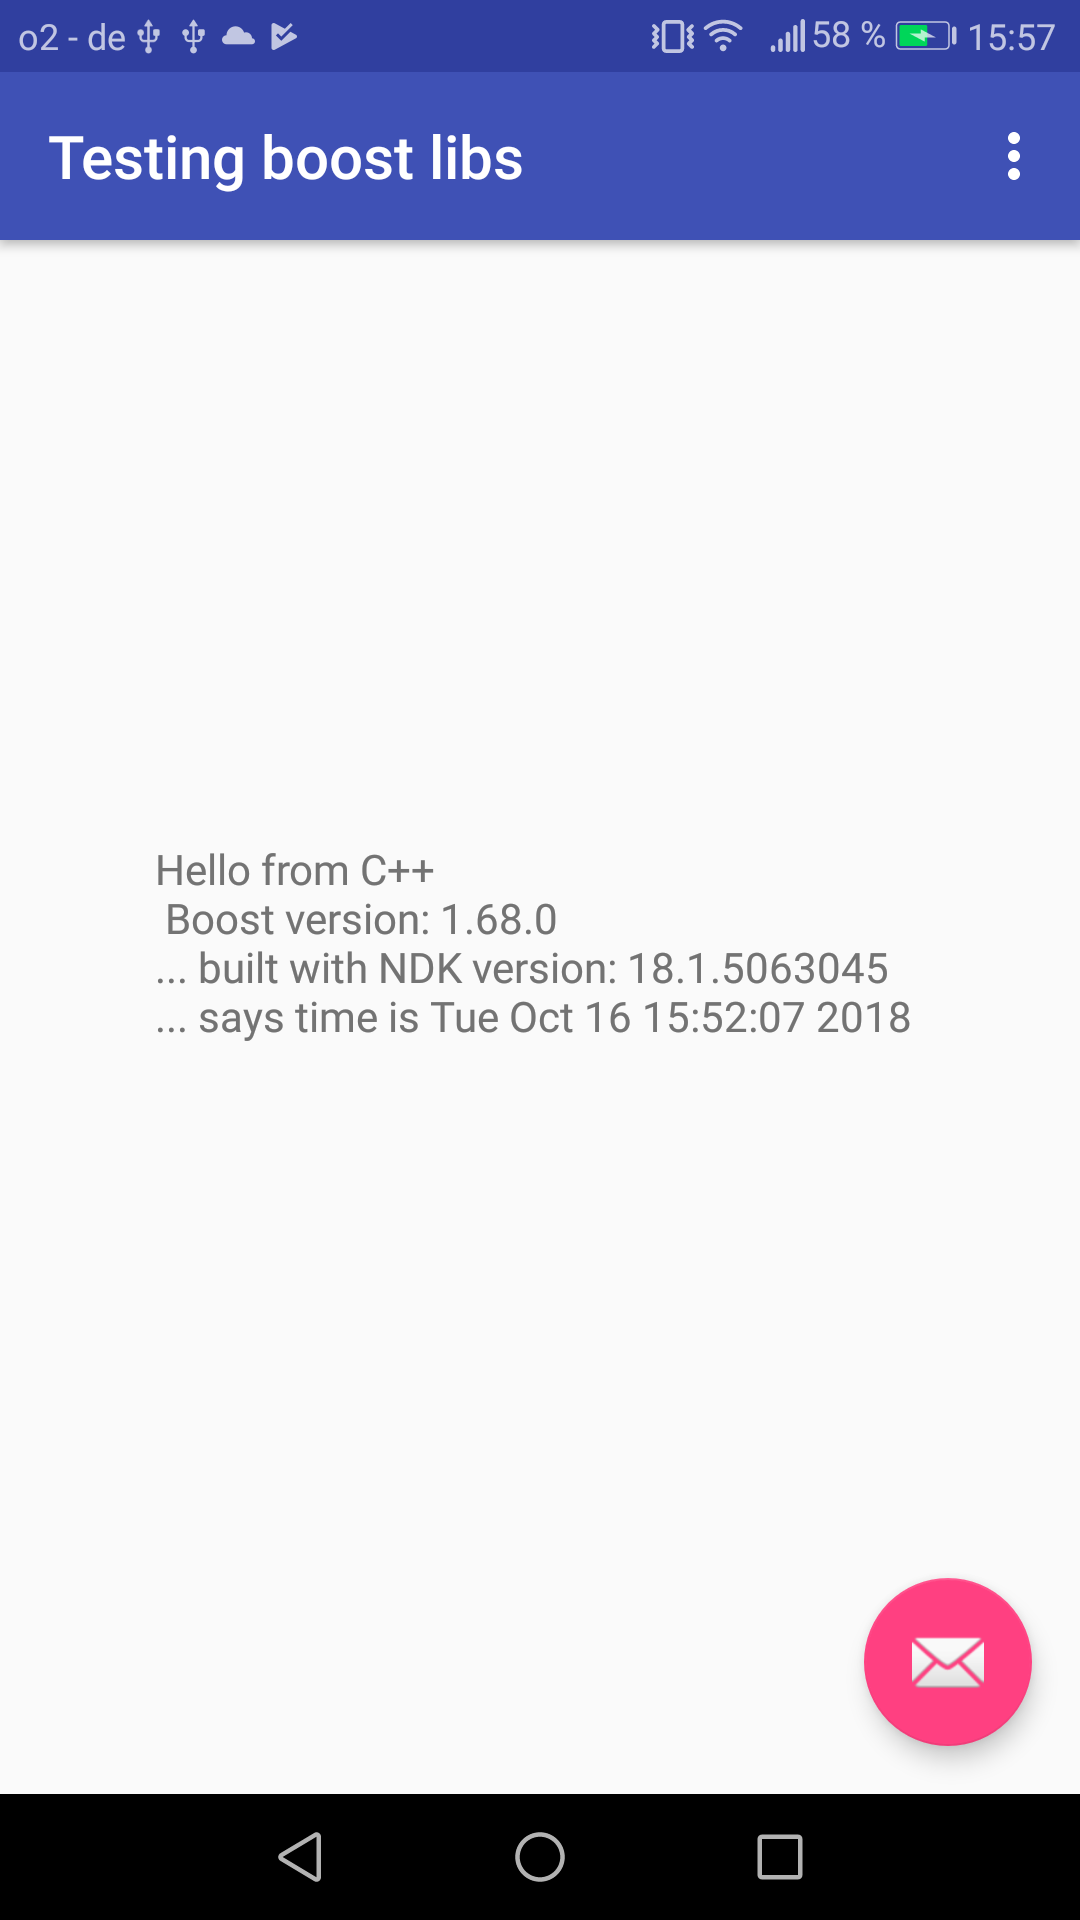
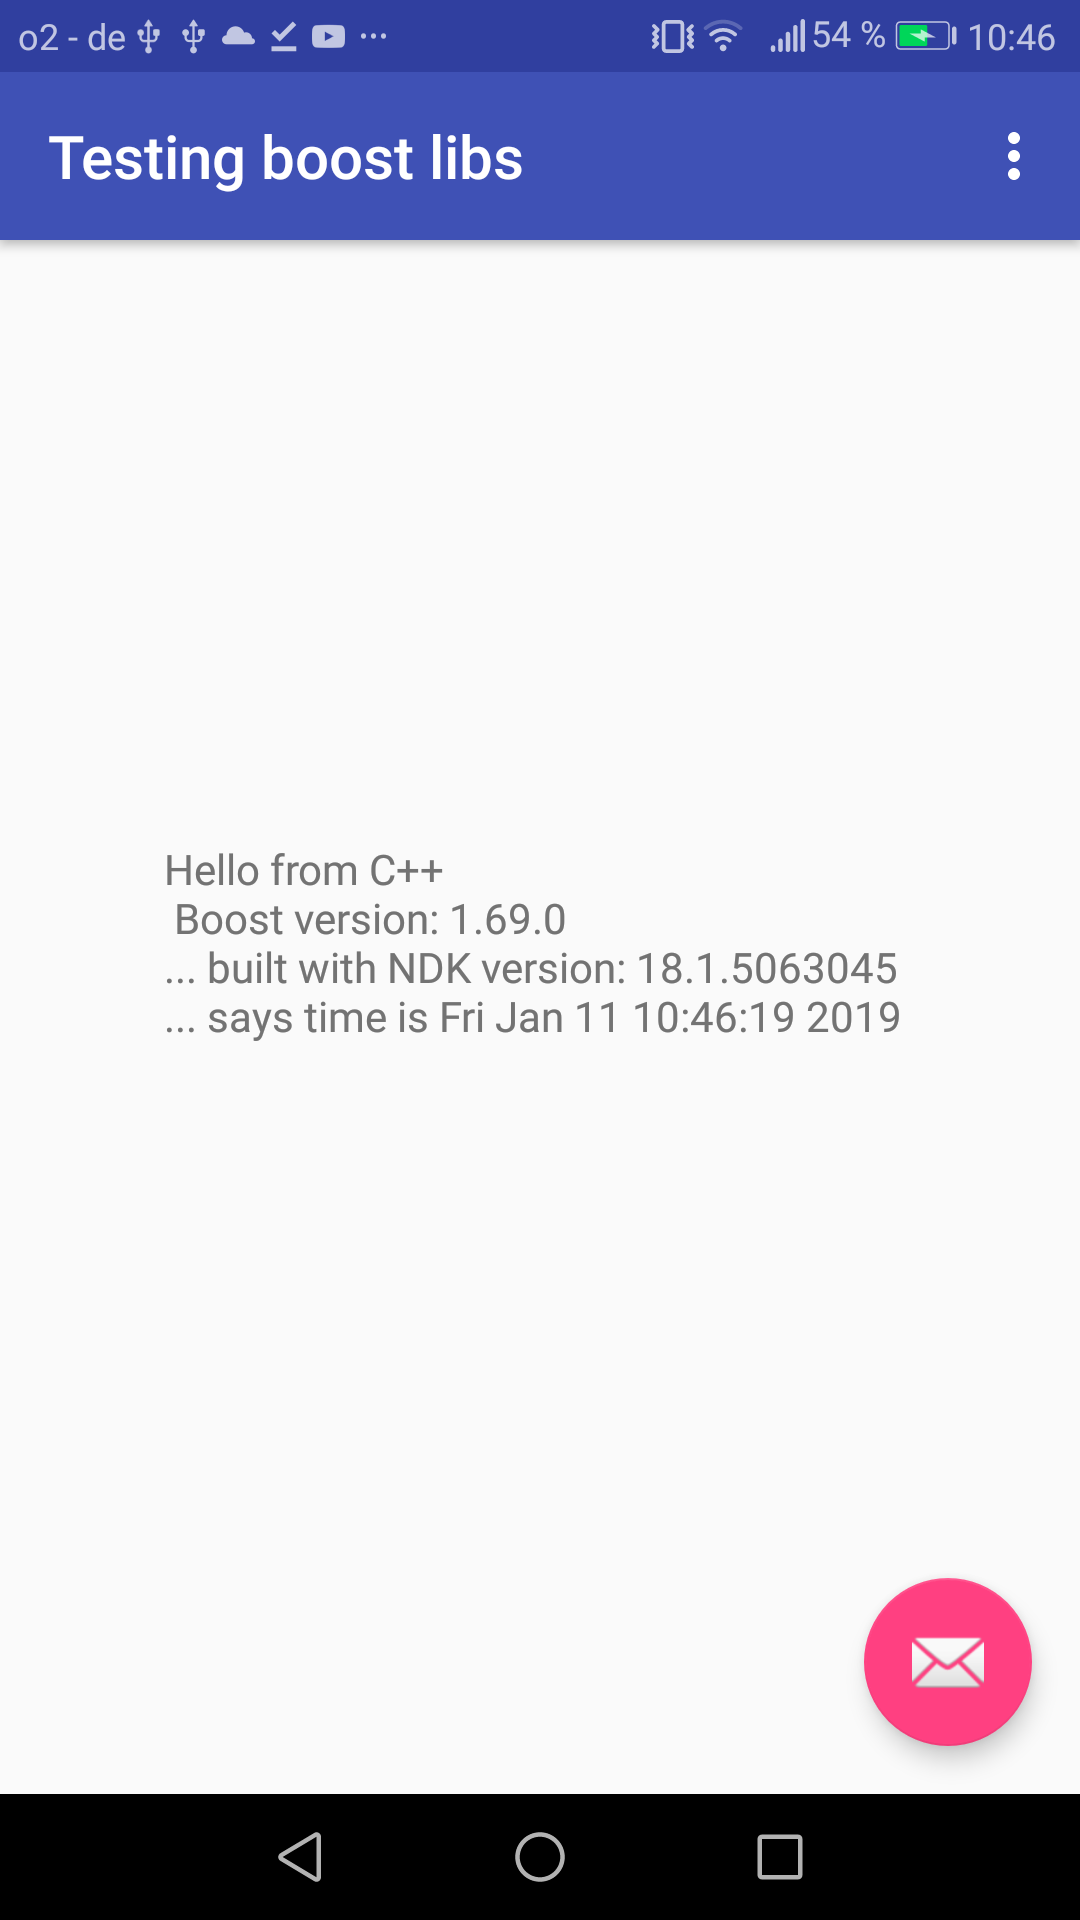
tested and verified with boost 1.69.0  (and ndk 18b)

diff --git a/README.md b/README.md
@@ -4,7 +4,7 @@ Build and/or simply download the Boost C++ Libraries for the Android platform, w
 The [Boost C++ Libraries](http://www.boost.org/), are possibly *the* most popular and generally useful c++ libraries. It would be nice to be able to use them when developing (native c++ or hybrid java/c++ with Google's [Ndk](https://developer.android.com/ndk/)) apps and/or libraries for Android devices.
 The Boost libraries are written to be cross platform, and are available in source code format. However, building the libraries for a given target platform is not a very simple or cross platform experience, at least in practice. Building the Boost libraries for Android can be very difficult and time consuming. This project aims to lower the barrier by offering a simple customizable build script you can use to build Boost for Android (abstracting away all the details of the underlying custom boost build system), and even providing standard prebuilt binaries to get you started fast.
 
-Tested with **Boost 1.68.0** and **Google's Ndk 18b**  (current versions as of Oct 2018).
+Tested with **Boost 1.69.0** and **Google's Ndk 18b**  (current versions as of Jan 2019).
 
 
 
@@ -30,7 +30,7 @@ You can just download a current set of standard (shared, clang/llvm) prebuilt bi
 > ls /home/declan/Documents/zone/mid/lib/boost/1.68.0
 boost  boost-build.jam  boostcpp.jam  boost.css  boost.png  ....
 ``` 
-  *__Note__:* If you are using ndk 18 you may have to modify the boost source code according to [this](https://github.com/boostorg/asio/pull/91). Currently Boost (1.68.0) doesn't support clang 7 which is the default compiler with ndk 18. This workaround should solve the problem until boost adds support for clang 7.
+  *__Note__:* If you are using ndk 18 and boost <= 1.68.0, you may have to modify the boost source code according to [this](https://github.com/boostorg/asio/pull/91). Boost (<= 1.68.0) doesn't support clang 7 which is the default compiler with ndk 18. This workaround should solve the problem until boost adds support for clang 7, which it seems to have done in 1.69.0.
 
 * Clone this repo:
 
